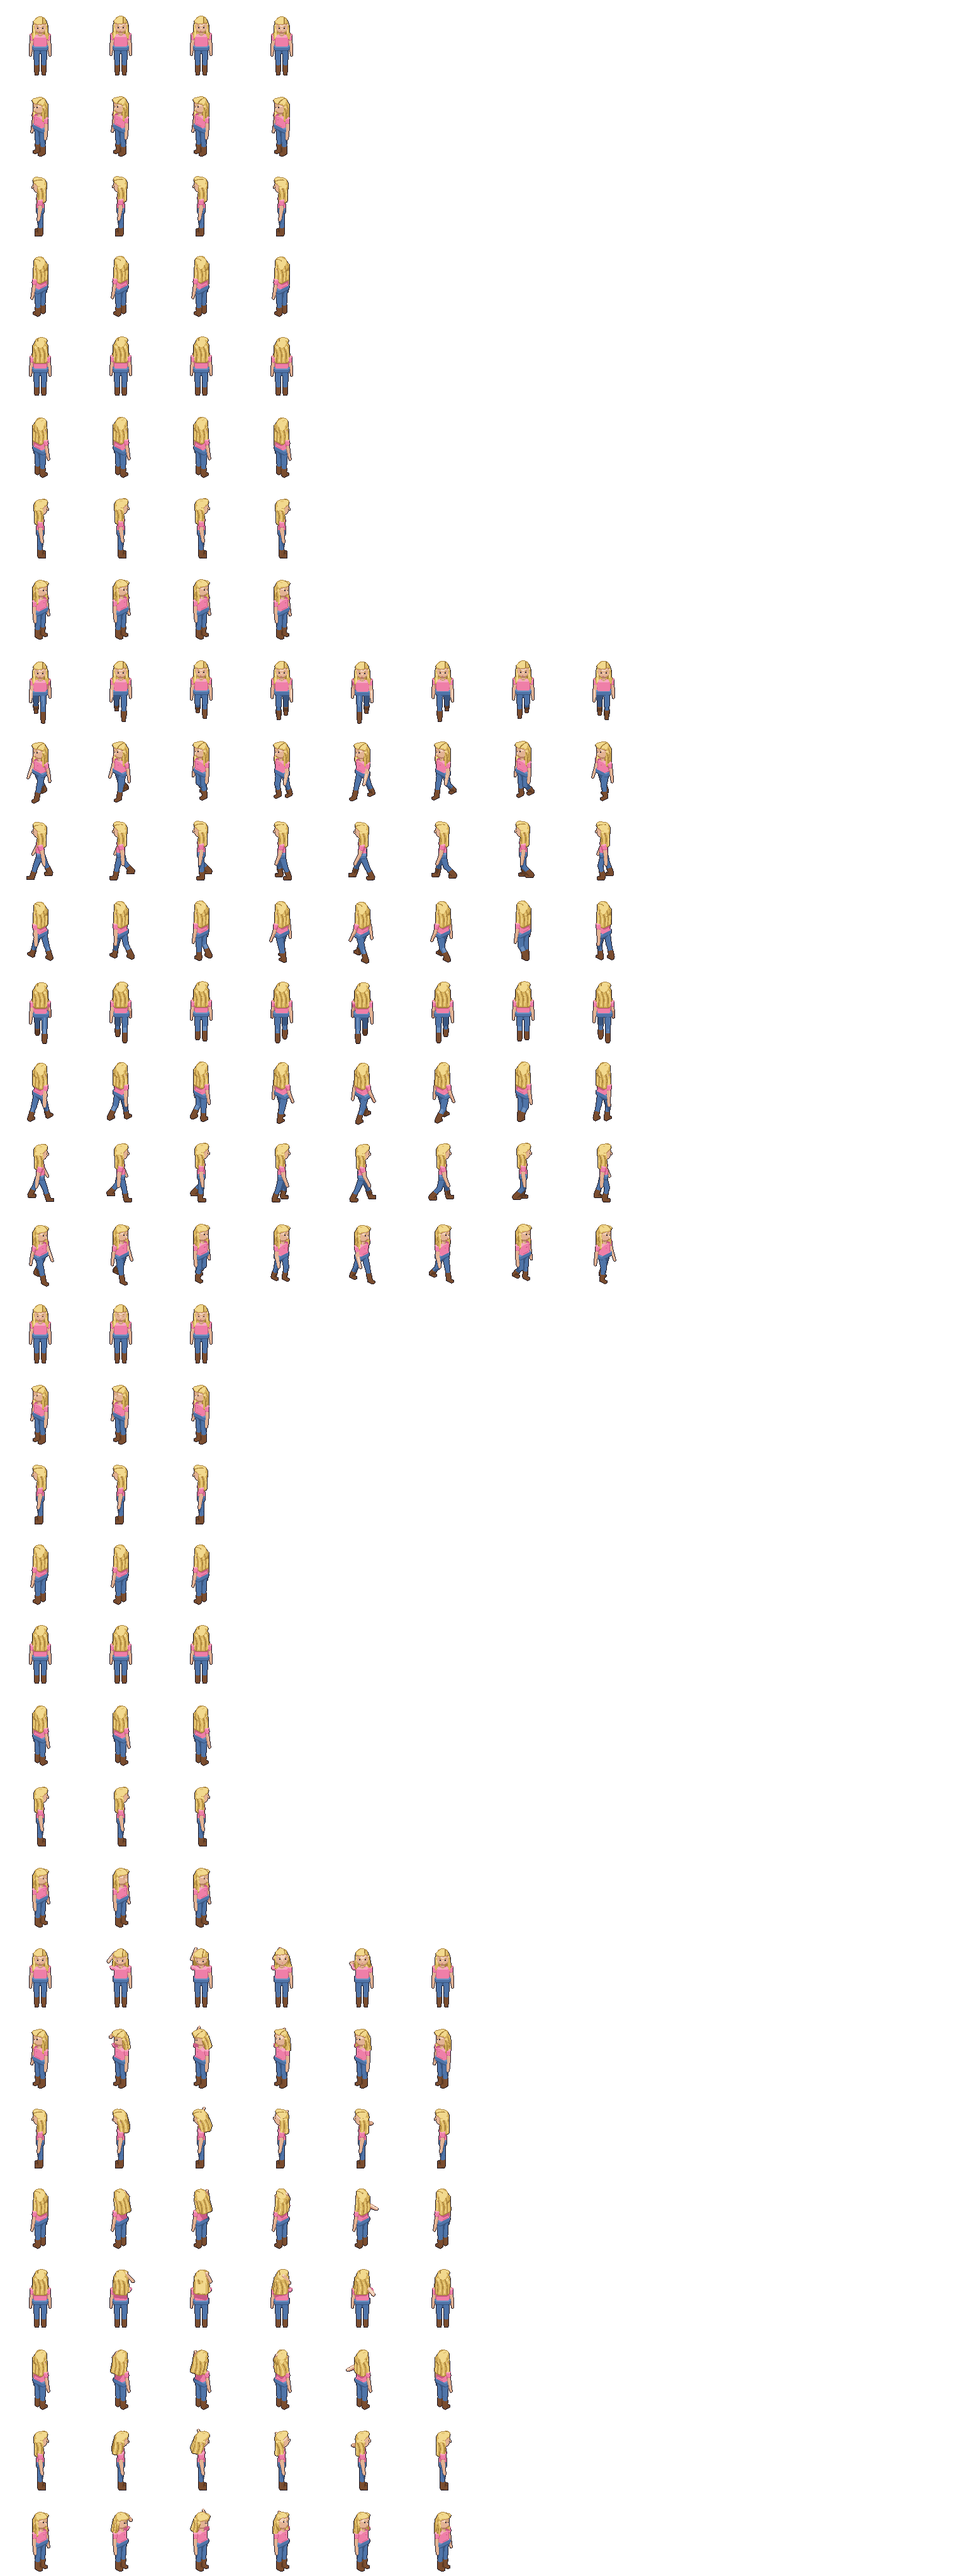
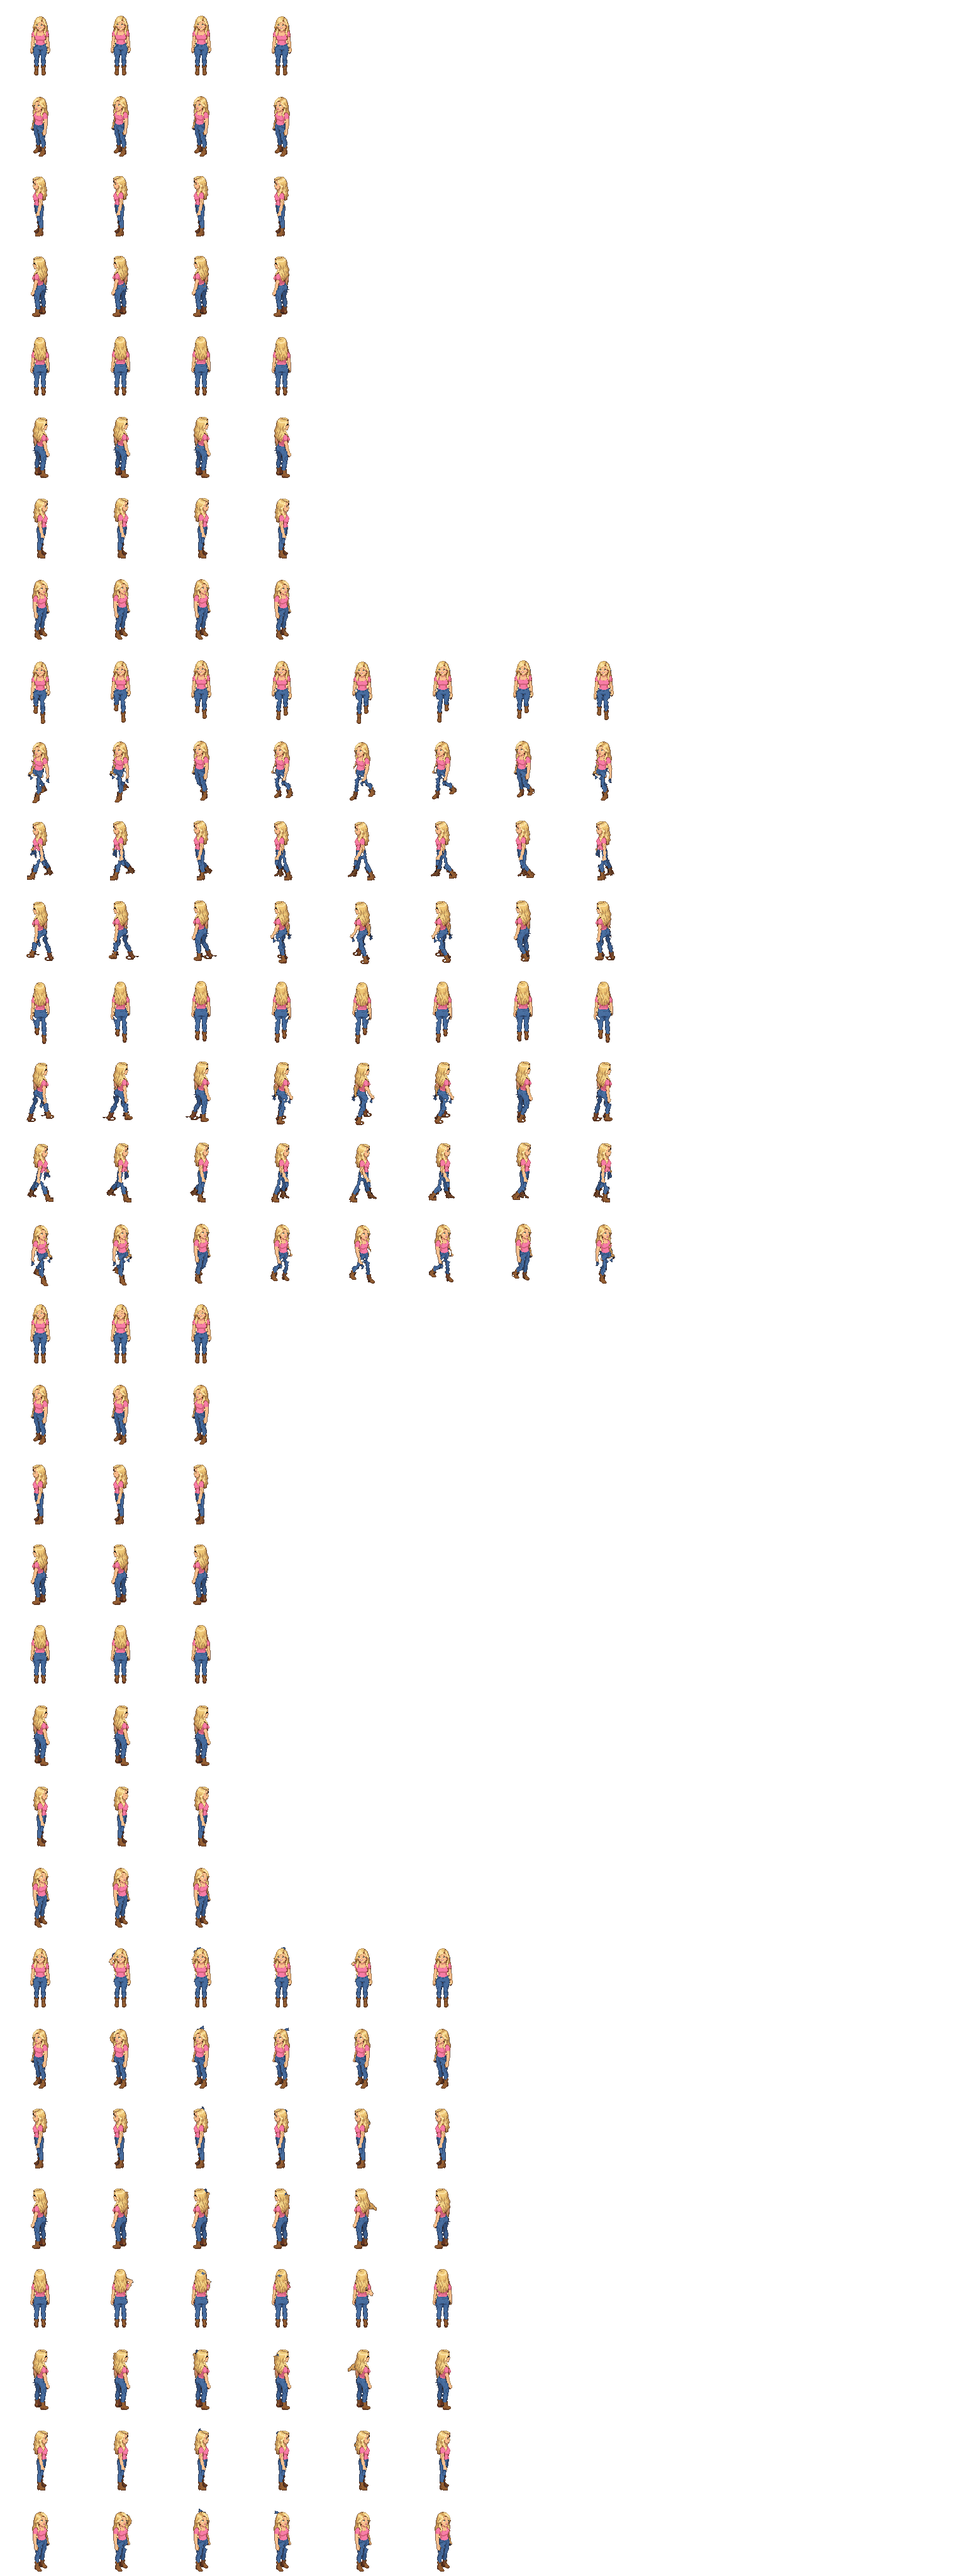
Penny v2 sheet, GIFs, before/after (v1 kept in refs/v1_style)

diff --git a/characters/penny/qa_report.md b/characters/penny/qa_report.md
@@ -1,6 +1,6 @@
 # QA report: chr_penny
 
-Generated 2026-10-30 00:57 (America/Los_Angeles) by tools/build_char_sheet.py + tools/qa_char.py.
+Generated 2026-10-30 01:21 (America/Los_Angeles) by tools/build_char_sheet.py + tools/qa_char.py.
 
 | Check | Result |
 |---|---|
@@ -11,6 +11,6 @@ Generated 2026-10-30 00:57 (America/Los_Angeles) by tools/build_char_sheet.py + 
 | Alpha values | [0, 255] |
 | Frames / sheet | 168 frames, 1536x4096 |
 | Animations | idle 4f@4fps x8D, walk 8f@10fps x8D, blink 3f@12fps x8D, hair_flip 6f@10fps x8D |
-| Mirrors (NE/E/SE = flip NW/W/SW) | NE: silhouette same, 227 px re-evaluated, E: silhouette same, 148 px re-evaluated, SE: silhouette same, 138 px re-evaluated |
-| Eye pixels in idle S | 8 |
+| Mirrors (NE/E/SE = flip NW/W/SW) | NE: silhouette same, 0 px re-evaluated, E: silhouette same, 0 px re-evaluated, SE: silhouette same, 0 px re-evaluated |
+| Eye pixels in idle S | 0 |
 | GIFs | blink_8dir_4x.gif (4f), hair_flip_8dir_4x.gif (7f), idle_8dir_4x.gif (4f), walk_8dir_4x.gif (8f), walk_E_4x.gif (8f), walk_NE_4x.gif (8f), walk_NW_4x.gif (8f), walk_N_4x.gif (8f), walk_SE_4x.gif (8f), walk_SW_4x.gif (8f), walk_S_4x.gif (8f), walk_W_4x.gif (8f) |
